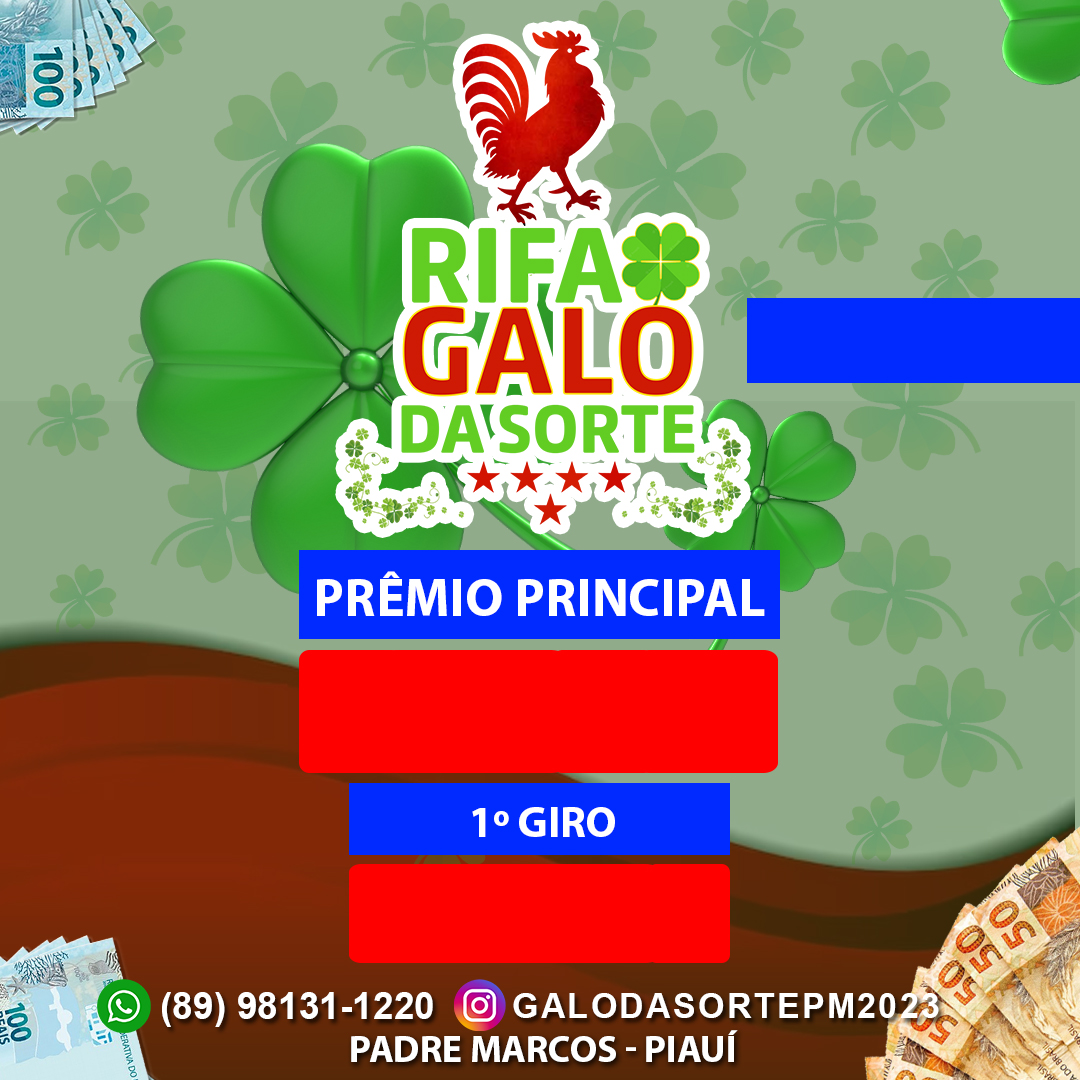
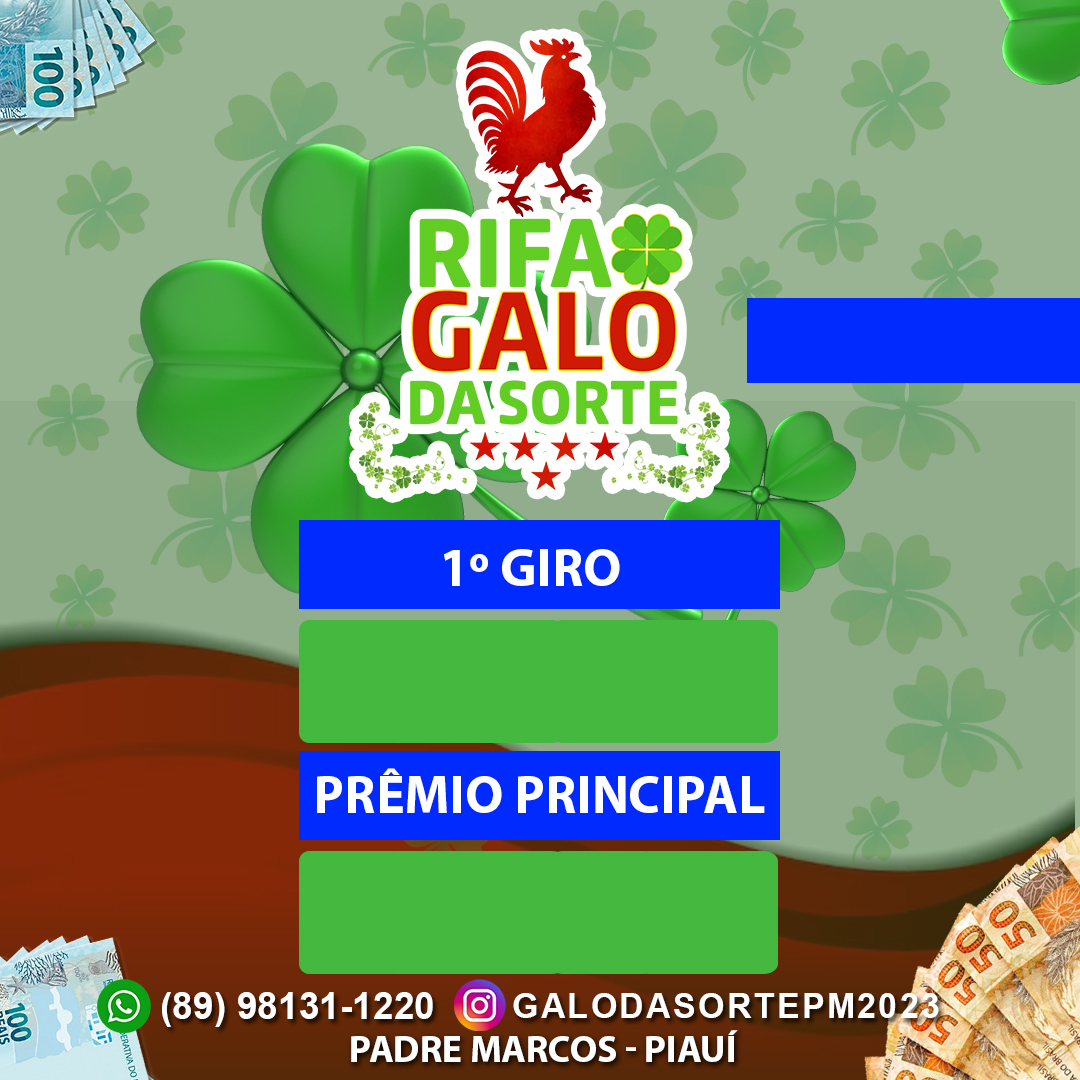
Mudança de ordem na midia

Changed region(s): [[0.275, 0.0, 0.7333, 0.9167]]

diff --git a/scripts/pm/resultado5numeros2giros.js b/scripts/pm/resultado5numeros2giros.js
@@ -78,10 +78,10 @@ $( "#btnSubmit" ).click(function() {
   context.save();
 
   context.textBaseline = "middle";
-  context.font = "120px arial";
+  context.font = "130px arial";
   context.fillStyle = "white";
 
-  context.fillText(n1, 370, 720);
+  context.fillText(n1, 358, 690);
 
 
   context.textBaseline = "middle";
@@ -93,10 +93,10 @@ $( "#btnSubmit" ).click(function() {
 
 
   context.textBaseline = "middle";
-  context.font = "100px arial";
+  context.font = "130px arial";
   context.fillStyle = "white";
  
-  context.fillText(n2, 400, 920);
+  context.fillText(n2, 358, 923);
   //context.fillText(n2, 620, 943);
   
   context.restore();
